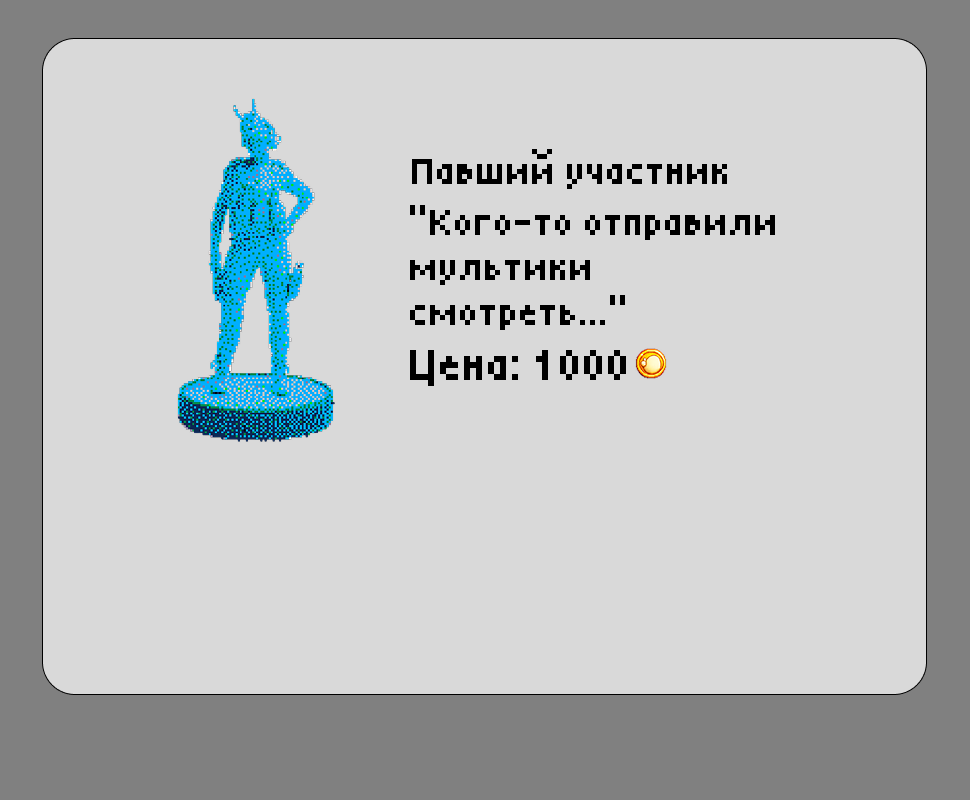
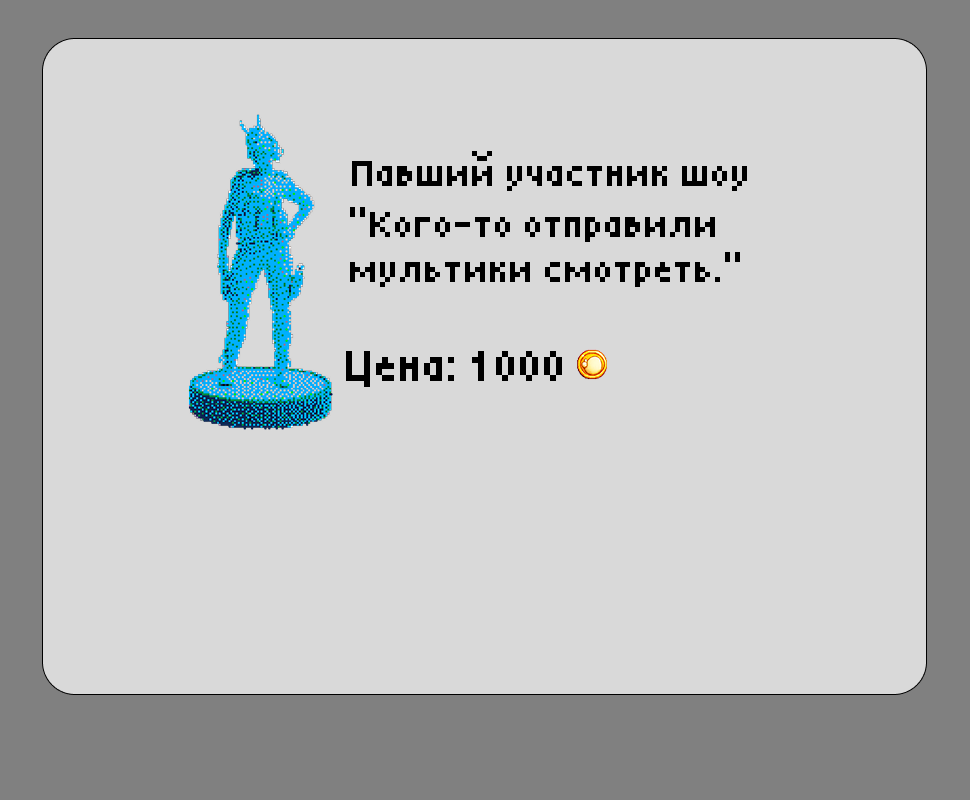
spell fix and more

Changed region(s): [[0.3402, 0.1875, 0.8041, 0.4062], [0.1856, 0.125, 0.7113, 0.5625]]

diff --git a/main.py b/main.py
@@ -42,7 +42,7 @@ menu_screen = pygame.image.load("assets/images/UI/menu_screen.png")
 
 settings_bg = pygame.image.load("assets/images/UI/settings_bg.png")
 
-achievements_bg_ru = pygame.image.load("assets/images/UI/achievements_ru.png")
+achievements_bg_ru = pygame.image.load("assets/images/UI/achievements.png")
 
 volume_icon = pygame.image.load("assets/images/UI/volume_icon.png")
 
@@ -248,7 +248,7 @@ class Achievements:
             "assets/sounds/sfxes/announcement.mp3"
             )
         self.image = pygame.image.load(
-            "assets/images/UI/hidden_achi_ru.png"
+            "assets/images/UI/hidden_achi.png"
         ).convert_alpha()
         self.rect = self.image.get_rect(topleft=(x, y))
         self.unlocked = False
